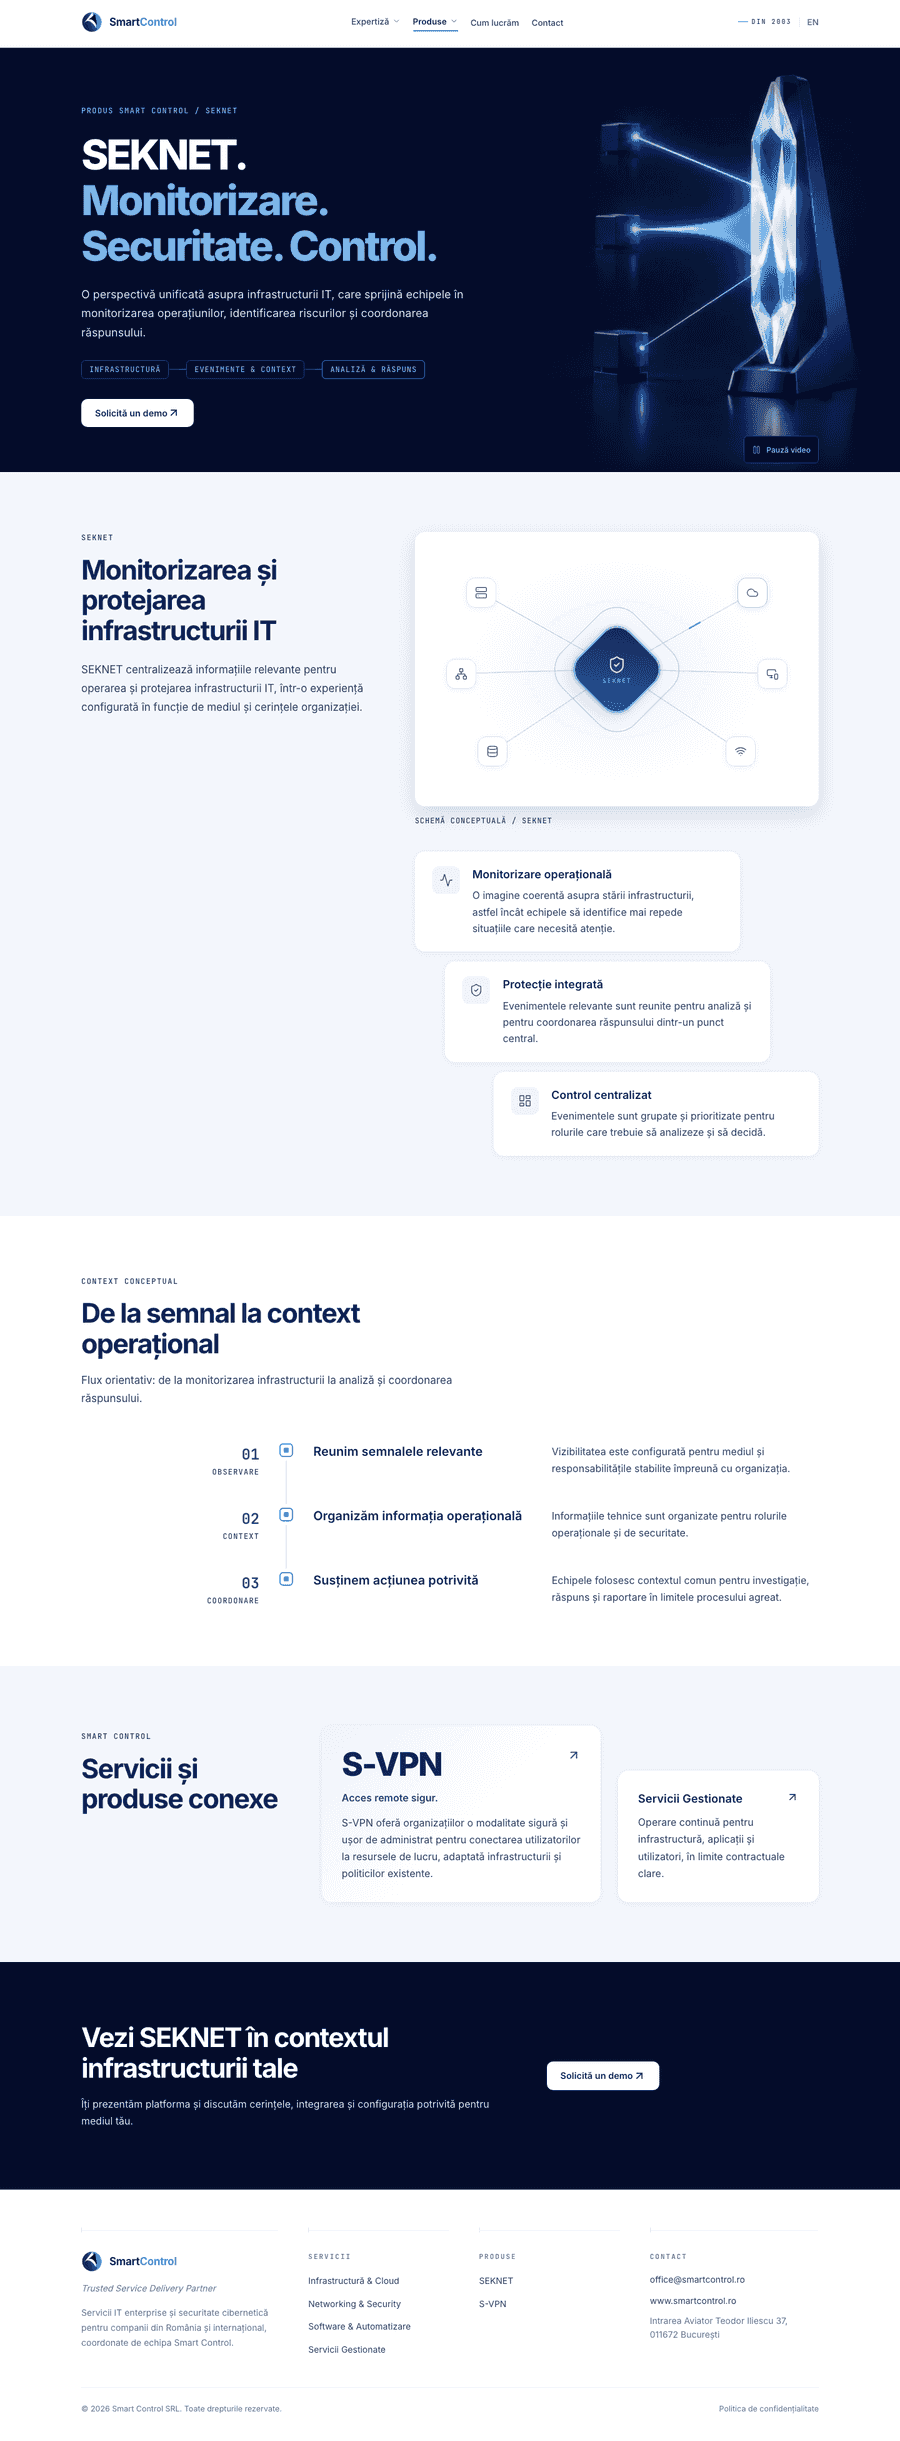
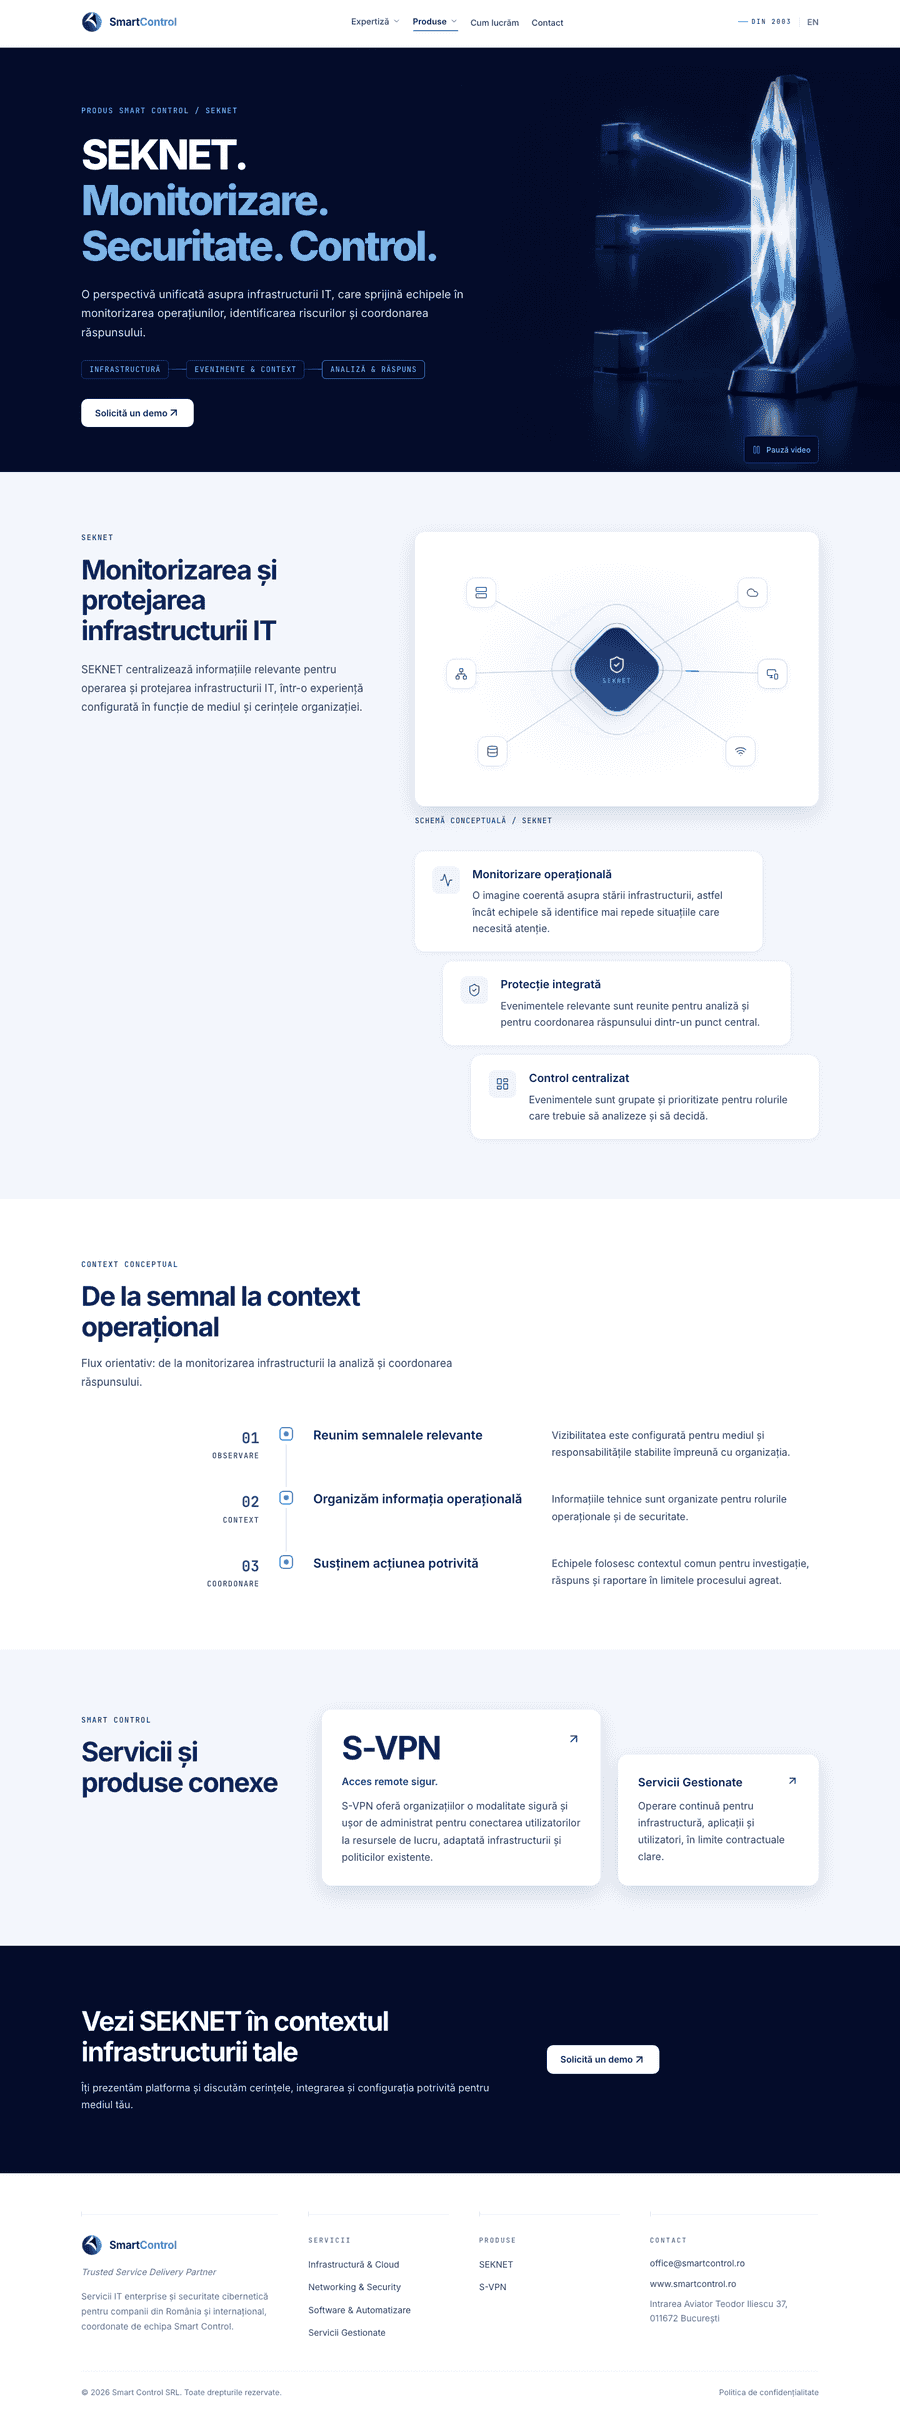
fix(products): address review follow-ups on the product template
- hero copy spans the grid on product pages (>=901px, 680px measure);
  pills never wrap above 640px and stack below, so no connector starts
  a row; mobile connector touches both pills
- capability stair uses percentage width/offsets and holds at all
  widths >=901px
- light-tone ProductVisual: no glow (border-colour flash only), merged
  the duplicated .pv--light block
- related: wordmark weight 700, white product card on wash bands,
  cards named by their h3 via aria-labelledby
- journey numbers aria-hidden; node inner radius uses --radius-xs
- pruned unused prd-hero/prd-overview/prd-overview-body classes and the
  stale .product-signal selector in the video check

diff --git a/src/styles/product.css b/src/styles/product.css
@@ -10,11 +10,20 @@
 }
 
 /* ── Hero: the conceptual flow as mono pills joined by a rail ─────────── */
+/* The right half of the hero is the video, not a grid column: let the copy
+   span the grid with its own measure so it is never squeezed. */
+@media (min-width: 901px) {
+  .product-page .detail-hero-grid > div {
+    grid-column: 1 / -1;
+    max-width: 680px;
+  }
+}
+/* One row (≤ 550px wide) above 640px, a vertical flow below: a connector
+   never starts a wrapped row. */
 .prd-signal {
   display: flex;
-  flex-wrap: wrap;
+  flex-wrap: nowrap;
   align-items: center;
-  row-gap: 10px;
   margin-top: 28px;
 }
 .prd-signal li {
@@ -79,7 +88,7 @@
   grid-template-columns: auto minmax(0, 1fr);
   gap: 20px;
   align-items: start;
-  width: min(100%, 520px);
+  width: 86%;
   padding: 24px 28px;
   border-radius: var(--radius-xl);
   background: var(--color-surface);
@@ -87,11 +96,10 @@
 }
 /* Strata: each card steps further right, the last one meets the edge. */
 .prd-capability:nth-child(2) {
-  margin-inline-start: auto;
-  margin-inline-end: 12%;
+  margin-inline-start: 7%;
 }
 .prd-capability:nth-child(3) {
-  margin-inline-start: auto;
+  margin-inline-start: 14%;
 }
 .prd-capability-icon {
   display: grid;
@@ -189,7 +197,7 @@
   content: "";
   width: 8px;
   height: 8px;
-  border-radius: 2px;
+  border-radius: var(--radius-xs);
   background: var(--color-bright);
 }
 .prd-stop h3 {
@@ -281,12 +289,9 @@
   padding: 32px;
   border-radius: var(--radius-xl);
   background: var(--color-surface);
-  box-shadow: var(--shadow-sm);
+  box-shadow: var(--shadow-lg);
   color: var(--color-navy);
   transition: box-shadow 0.2s;
-}
-.prd-related:not(.detail-wash) .prd-card {
-  box-shadow: var(--shadow-lg);
 }
 .prd-card:hover {
   box-shadow: var(--shadow-xl);
@@ -320,6 +325,8 @@
 }
 .prd-card--product {
   padding-top: 36px;
+}
+.prd-related:not(.detail-wash) .prd-card--product {
   background: linear-gradient(
     135deg,
     var(--color-blue-wash) 0%,
@@ -329,7 +336,7 @@
 .prd-card .prd-wordmark {
   font-size: clamp(2.25rem, 4vw, 3.25rem);
   line-height: 1;
-  font-weight: 800;
+  font-weight: 700;
   letter-spacing: -0.04em;
   color: var(--color-navy);
 }
@@ -386,10 +393,8 @@
   .prd-scene {
     max-width: 560px;
   }
-  .prd-capability,
-  .prd-capability:nth-child(2) {
+  .prd-capability {
     width: auto;
-    margin-inline: 0;
   }
   .prd-capability:nth-child(2) {
     margin-inline-start: 20px;
@@ -405,6 +410,7 @@
   .prd-signal {
     flex-direction: column;
     align-items: flex-start;
+    gap: 0;
   }
   .prd-signal li {
     flex-direction: column;

diff --git a/docs/design-proposals/product-pages-less-grid/README.md b/docs/design-proposals/product-pages-less-grid/README.md
@@ -37,10 +37,11 @@ leaves.
   animated scene on top of it competed with the video and covered it.
   `ProductVisual` therefore gained an optional `tone="light"` prop. It keeps the
   same geometry and timing but uses a white card with a navy-tinted shadow,
-  royal node icons, faint royal rails and calmer glows. The navy core/gate
-  remains as the only dark accent, so no new dark zone is added. The default
-  stays `dark`, and the homepage band is unchanged (the dark keyframe colours
-  moved into custom properties with identical values).
+  royal node icons and faint royal rails. It has no glow, because glow is
+  reserved for dark zones; nodes flash with a border colour only. The navy
+  core/gate remains as the only dark accent, so no new dark zone is added. The
+  default stays `dark`, and the homepage band is unchanged (the dark flash
+  shadows moved into custom properties with identical values).
 - **The other product in Related is a wordmark card, not a second scene.** Two
   animated scenes on one light page would compete. The large name and headline
   make the cross-sell distinct at no runtime cost.
@@ -68,11 +69,51 @@ caption moved from the hero strip to the overview scene.
 ## Checks adjusted
 
 - `scripts/check-service-video.mjs`: the toggle-overlap guard listed
-  `.product-signal`, which the template no longer renders. `.prd-signal li` was
-  added so the pause control is still proven not to cover the hero pills. The
-  old selector is kept and matches nothing.
+  `.product-signal`, which no page renders any more. It now lists
+  `.prd-signal li` instead, so the pause control is still proven not to cover
+  the hero pills.
 - `check-localization.mjs` was not changed. Its `data-route-visual` +
   `figcaption` requirement is now met by the overview scene figure.
+
+## Review follow-ups
+
+An independent review found no functional blockers. These fixes followed:
+
+1. **Hero pills wrapped at 901–1060px**, leaving a loose connector at the start
+   of row 2. The hero's right column is the video, so on product pages the copy
+   now spans the hero grid at 901px and up, with a 680px measure. The pill row
+   never wraps above 640px (the widest row is 550px; the narrowest single-row
+   column is 593px) and stacks vertically below that. A connector can no longer
+   start a row; verified at 641–1440px in RO and EN.
+2. **The capability stair flattened at 901–1150px.** The cards now use a
+   percentage width (86%) and offsets (0 / 7% / 14%). The stair holds at every
+   width of 901px and up (offsets measured at 0/32/64px at 901px and
+   0/45/90px at 1280px). Below 900px it keeps the 20/40px (12/24px on mobile)
+   steps.
+3. **Glow removed from the light-tone ProductVisual.** The node flash is a
+   border-colour change only, and the core/gate keep a navy-tinted shadow with
+   no 6px halo.
+4. **Related wordmark weight** reduced from 800 to 700; 800 is hero-only.
+5. **Mobile pill connector**: `gap: 0` in the stacked layout, so the line
+   touches both pills.
+6. **Product card on a wash band**: the wash-to-white gradient disappeared on
+   SEKNET's wash Related band. There the card is plain white, and both cards
+   use `--shadow-lg` everywhere. The gradient remains on S-VPN's white band.
+7. The inner square of each timeline node uses `var(--radius-xs)` instead of a
+   literal 2px.
+8. **Pruning**:
+   - removed the unused `prd-hero`, `prd-overview` and `prd-overview-body`
+     classes;
+   - merged the duplicated `.pv--light` block in `ProductVisual.astro`;
+   - removed the stale `.product-signal` entry from the video check.
+
+   `detail.css` is still untouched; its stale product rules will be pruned
+   after both template branches merge.
+9. **Accessibility**:
+   - the two cross-sell cards are named by their `h3` (`aria-labelledby`), so
+     each link's name is just the product or service name;
+   - the visible journey numbers are `aria-hidden`, since the `<ol>` already
+     conveys the order.
 
 ## Validation
 
